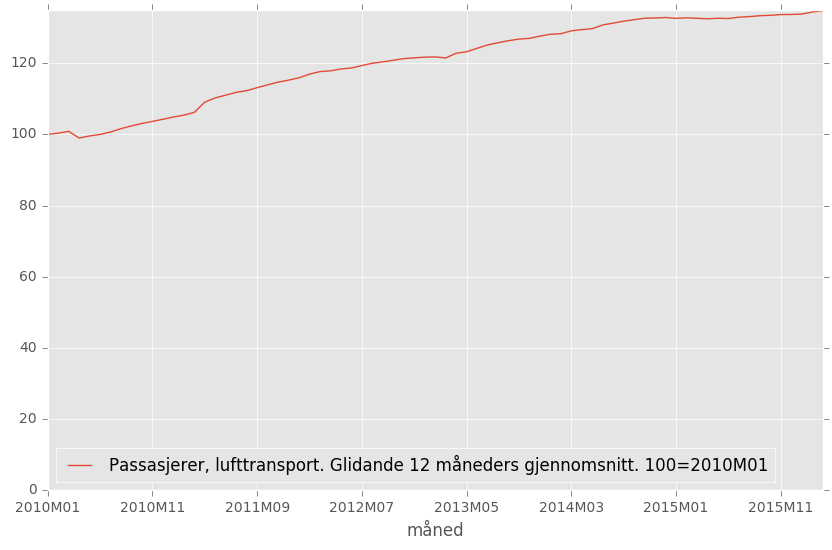
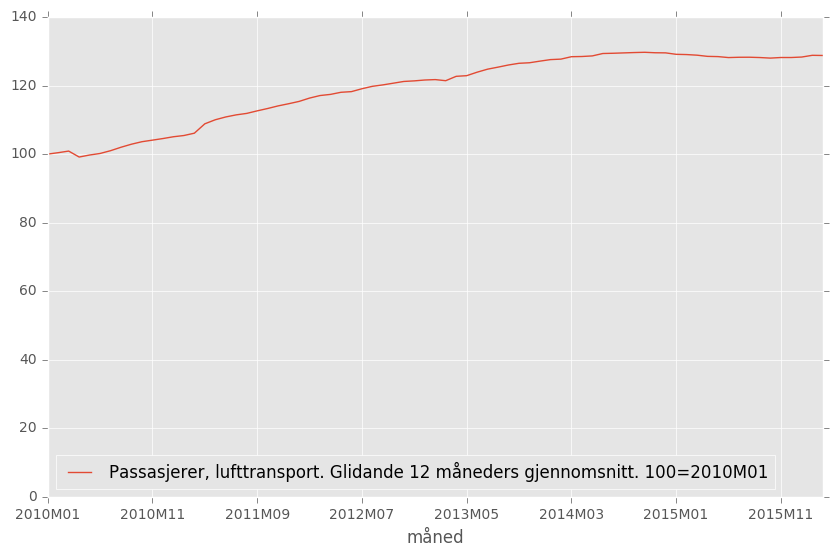
update...

diff --git a/flytrafikk.py b/flytrafikk.py
@@ -36,9 +36,9 @@ def flytrafikk():
     (xmin, xmax, ymin, ymax) = plot.axis()
     fig = matplotlib.pyplot.gcf()
     fig.set_size_inches(10.0, 6.0)
-    #import ipdb; ipdb.set_trace()
-    plot.axis((xmin, xmax, 0, ymax))
+    plot.axis((xmin, xmax, 0, 140.0))
     pylab.savefig('flytrafikk.png', bbox_inches='tight')
+    print ss
 
 if __name__=="__main__":
     fly = flytrafikk()
